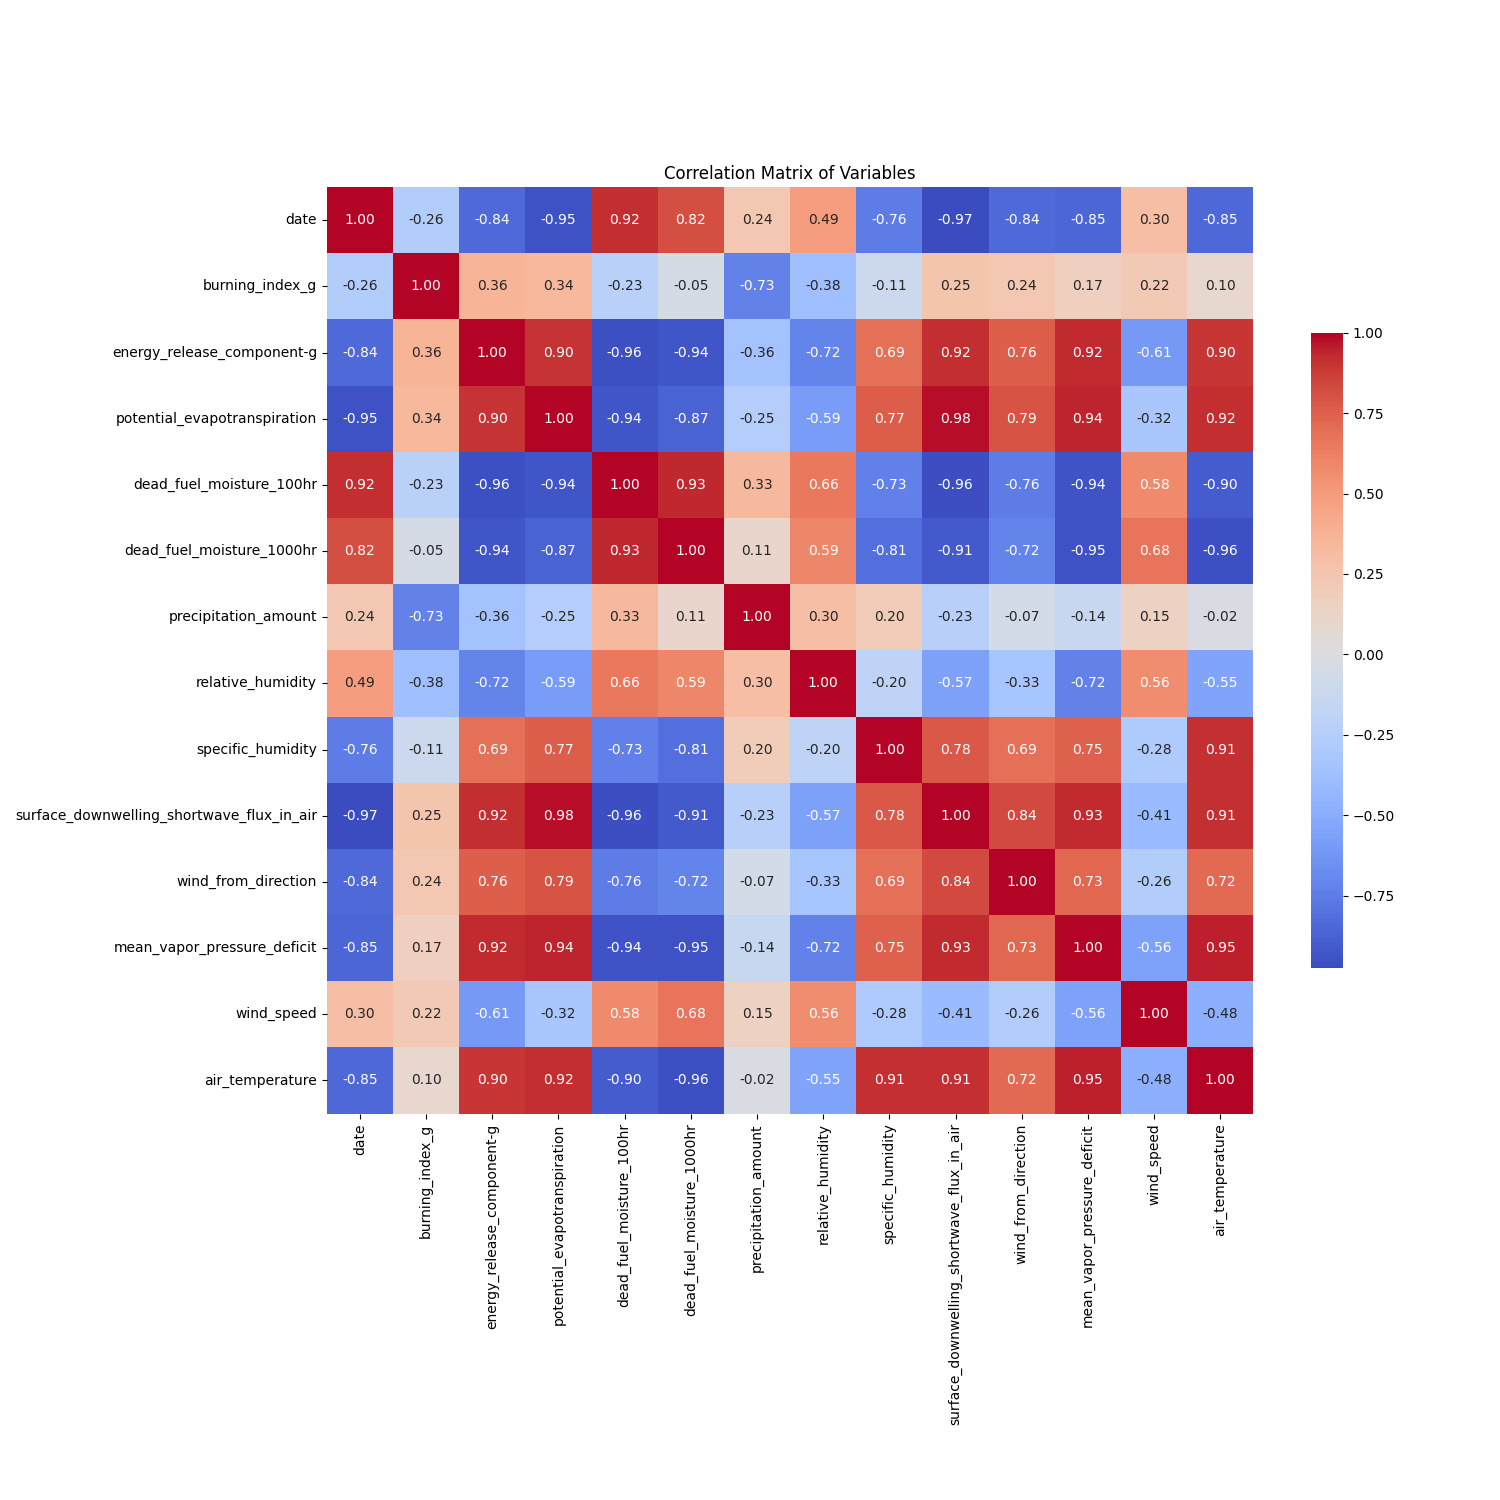
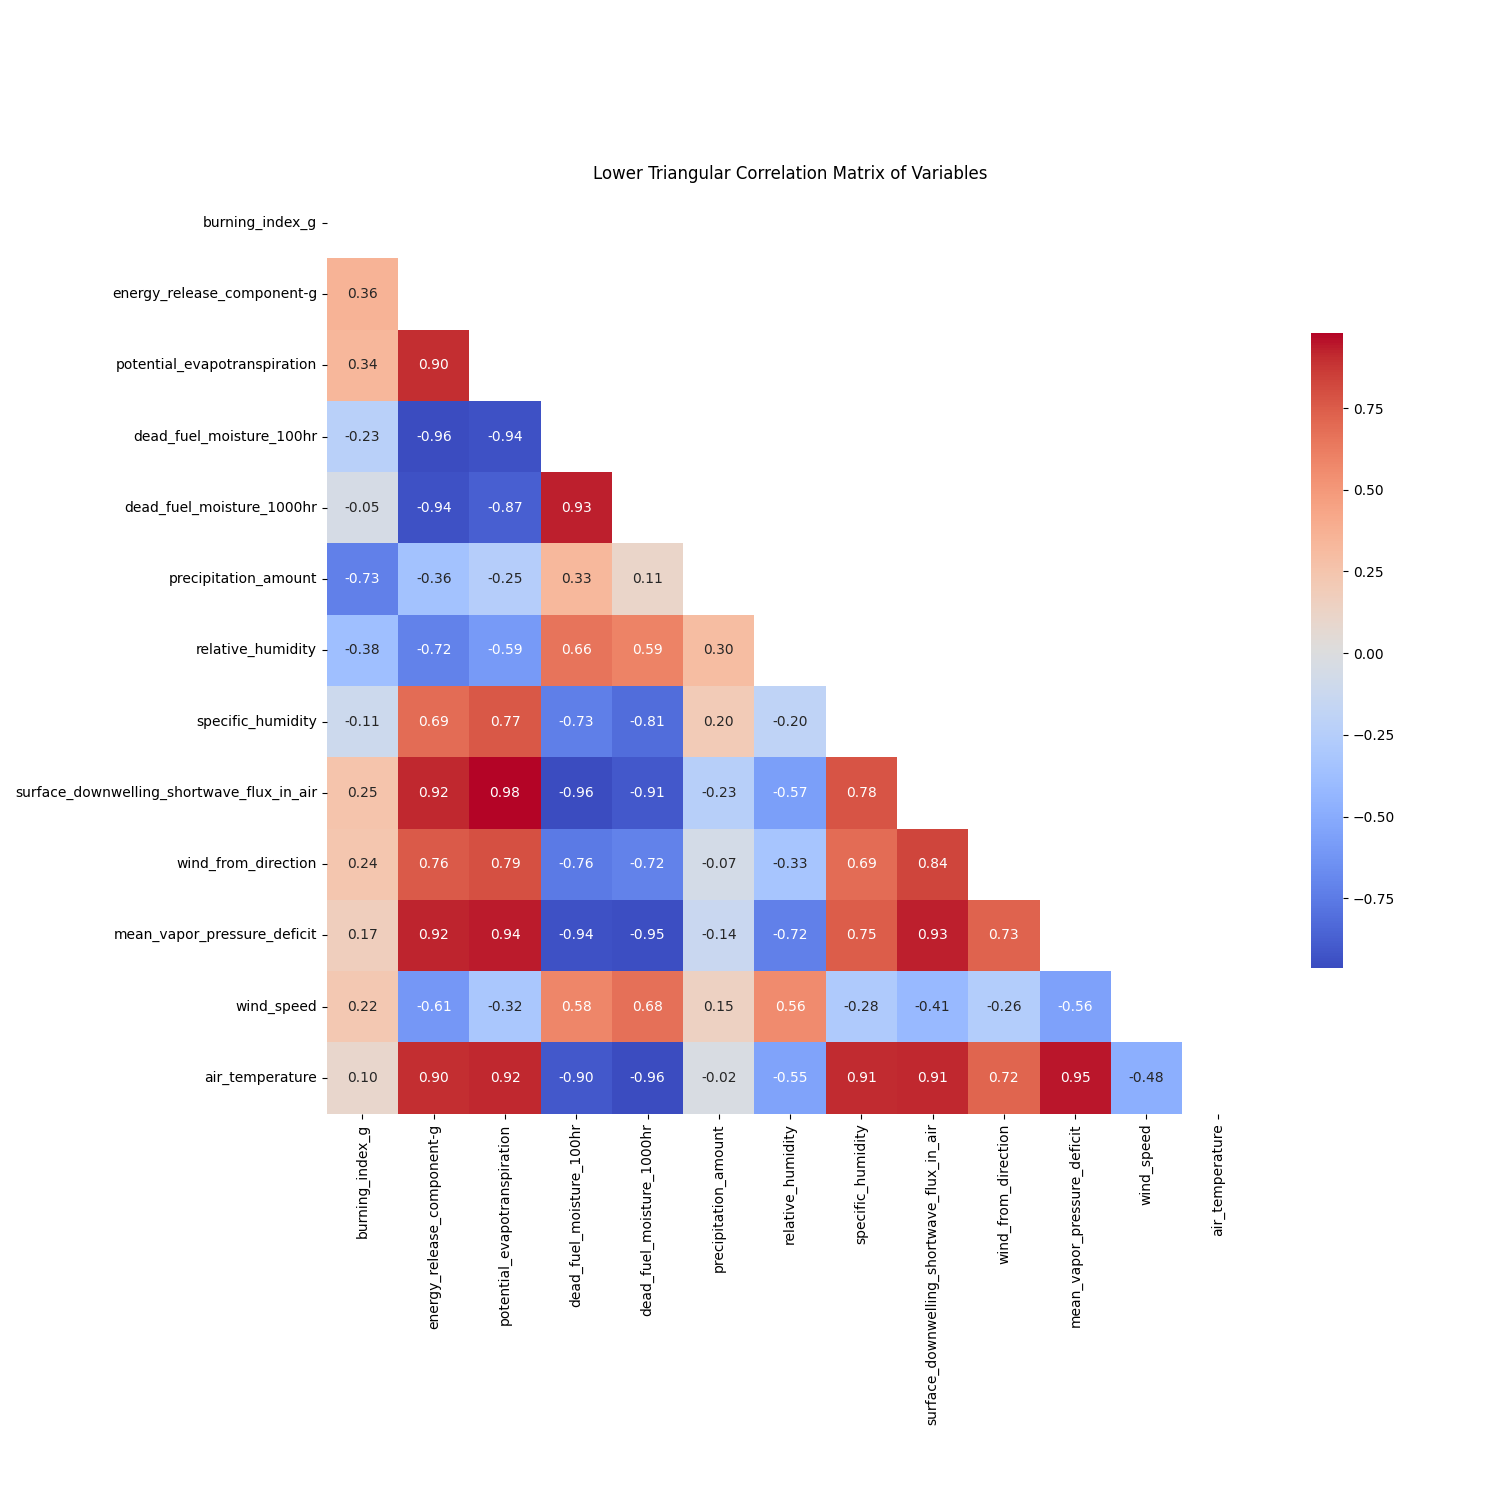
changes to colormapping

diff --git a/SciVis/colorMapping/correlation.py b/SciVis/colorMapping/correlation.py
@@ -3,6 +3,7 @@ import matplotlib.pyplot as plt
 import pandas as pd
 import seaborn as sns
 import os
+import numpy as np
 
 def load_dataset(folder):
     dataset = {}
@@ -31,17 +32,19 @@ def calculate_daily_means(dataset):
     return df
 
 def plot_correlation_matrix(df):
-    # Convert date column to datetime and ordinal (for numerical correlation)
-    df['date'] = pd.to_datetime(df['date'])
-    df['date'] = df['date'].map(pd.Timestamp.toordinal)
+    df.drop(['date'], axis=1, inplace=True)
 
-    # Calculate the correlation matrix
+   
     corr_matrix = df.corr()
 
-    # Plot the correlation matrix
+    
+    mask = np.triu(np.ones_like(corr_matrix, dtype=bool))
+
+    # Plot the correlation matrix with the mask applied
     plt.figure(figsize=(15,15))
-    sns.heatmap(corr_matrix, annot=True, cmap='coolwarm', fmt=".2f", square=True, cbar_kws={"shrink": .5})
-    plt.title("Correlation Matrix of Variables")
+    sns.heatmap(corr_matrix, mask=mask, annot=True, cmap='coolwarm', fmt=".2f", 
+                square=True, cbar_kws={"shrink": .5})
+    plt.title("Lower Triangular Correlation Matrix of Variables")
     plt.tight_layout()
     plt.savefig("correlation_matrix.png")
     

diff --git a/SciVis/colorMapping/animation_1.py b/SciVis/colorMapping/animation_1.py
@@ -52,7 +52,7 @@ if __name__ == "__main__":
     dataset = load_dataset("../sampled_data")
 
     date_index = list(dataset.keys())
-    output_dirs=["animation_1_fig_inferno"]
+    output_dirs=["bad_corr_fig_inferno"]
     for output_dir in output_dirs:
         save_images(output_dir,dataset, date_index, num_images=10,cmap=output_dir.split("_")[-1])
     
